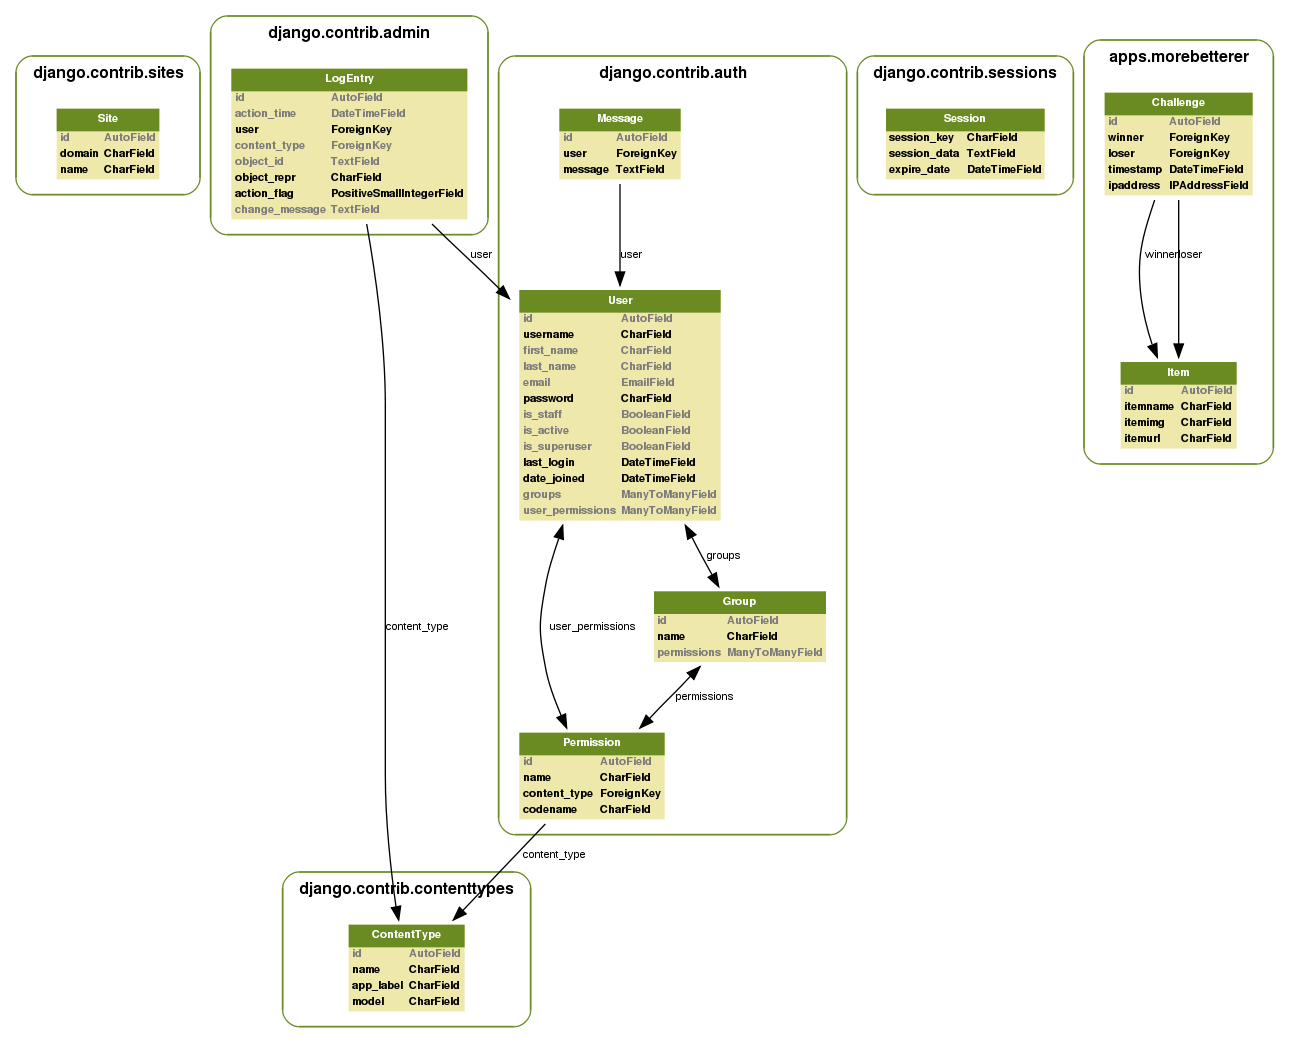
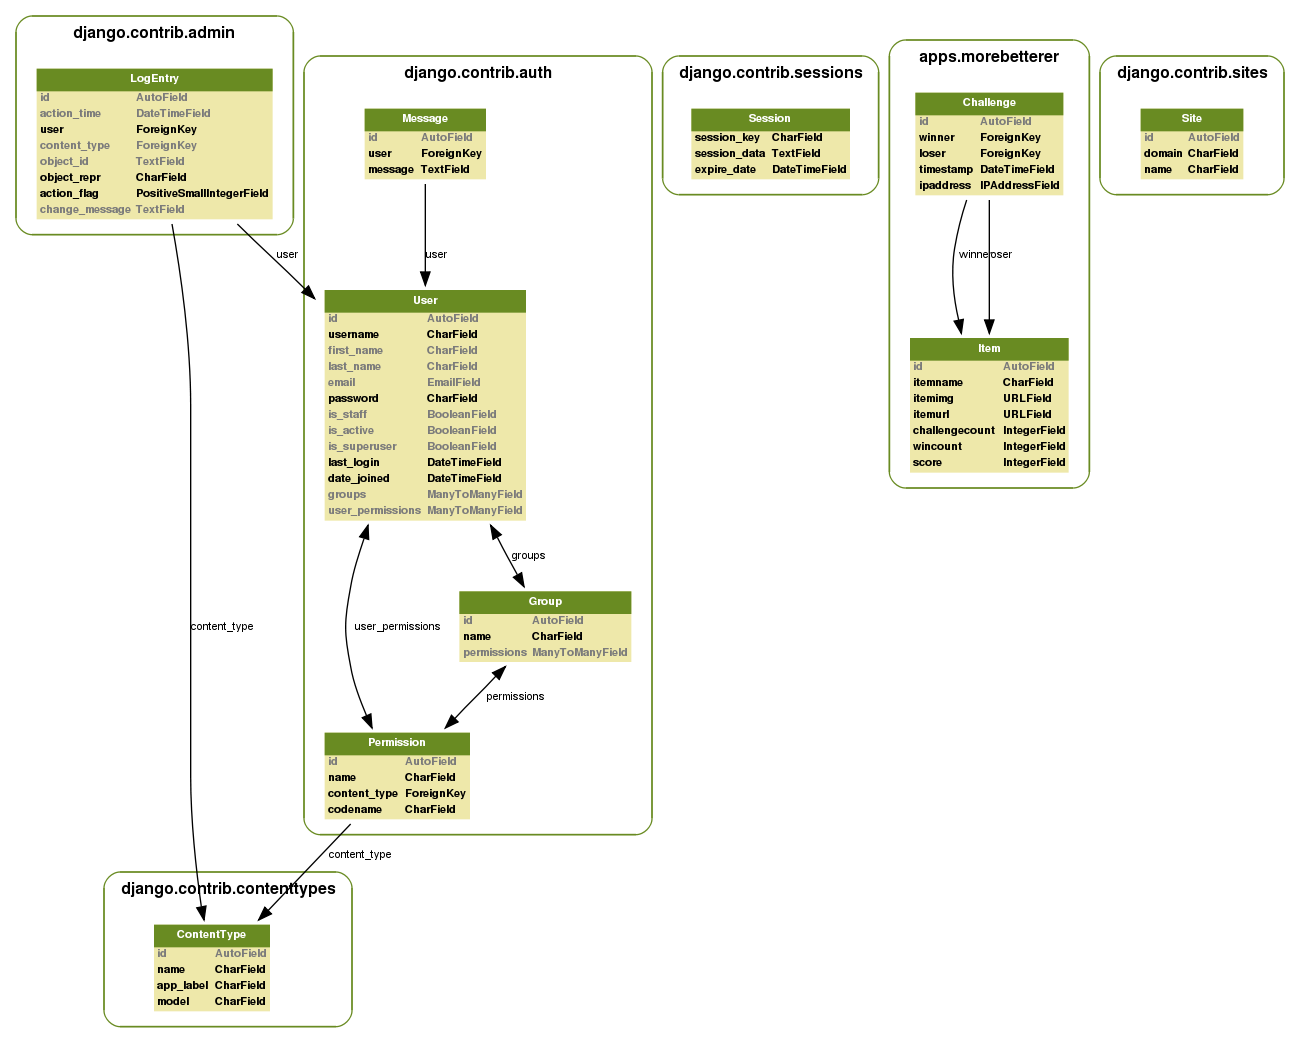
Added templates and views

diff --git a/templates/top.html b/templates/top.html
@@ -1,0 +1,13 @@
+{% extends "base.html" %}
+{% load convert_tags %}
+
+{% block title %}Top Photos ... so far{% endblock %}
+
+{% block content %}
+<h1>Top photos ... so far</h1>
+
+{% for item in items %}
+    <p><a href="{{ item.itemurl }}">{{ item.itemname }}</a></p>
+    <p><a href="{{ item.itemurl }}">{% thumbnail item.itemimg "600gt" %}</a></p>
+{% endfor %}
+{% endblock %}

diff --git a/templates/challenge.html b/templates/challenge.html
@@ -1,0 +1,12 @@
+{% extends "base.html" %}
+{% load convert_tags %}
+
+{% block title %}Photo of the Day Smackdown{% endblock %}
+
+{% block content %}
+<h1>Photo of the Day Smackdown</h1>
+<h2>Which image is more betterer?</h2>
+
+{% thumbnail item1.itemimg "600gt" %} vs {% thumbnail item2.itemimg "600gt" %} 
+
+{% endblock %}

diff --git a/templates/base.html b/templates/base.html
@@ -1,0 +1,9 @@
+<html>
+<head>
+    <title>{% block title %}{% endblock %}</title>
+</head>
+<body>
+    Heading
+    {% block content %}{% endblock %}
+</body>
+</html>

diff --git a/morebetterer/models.py b/morebetterer/models.py
@@ -1,3 +1,4 @@
+from __future__ import division
 from django.db import models
 from django.contrib import admin
 from datetime import datetime
@@ -7,7 +8,10 @@ from django.db.models import Avg
 class ItemQuerySet(QuerySet):
     def underchallengeditems(self):
         average = Item.objects.all().aggregate(Avg('challengecount'))['challengecount__avg']
-        return self.filter(challengecount__lte = average) 
+        return self.filter(challengecount__lte = average)
+    
+    def topitems(self):
+        return self.filter(challengecount__gte=5).order_by('-score') 
 
 class ItemManager(models.Manager):
     def get_query_set(self):
@@ -16,11 +20,14 @@ class ItemManager(models.Manager):
     def underchallengeditems(self):
         return self.get_query_set().underchallengeditems()
 
+    def topitems(self):
+        return self.get_query_set().topitems()
+
     def candidateitems(self):
         item1 = Item.objects.underchallengeditems().order_by('?')[0]
         item2 = Item.objects.exclude(id=item1.id).order_by('?')[0]
         return (item1, item2)
-
+    
 class Item(models.Model):
     objects = ItemManager()
     itemname =  models.CharField(max_length=150)
@@ -28,8 +35,8 @@ class Item(models.Model):
     itemurl =  models.URLField()
     challengecount = models.IntegerField(default=0)
     wincount = models.IntegerField(default=0)
-    losscount = models.IntegerField(default=0)
-
+    score = models.IntegerField(default=0)
+    
     def __unicode__(self):
         return self.itemname
 
@@ -43,13 +50,13 @@ class Challenge(models.Model):
         winneritem = Item.objects.filter(id=self.winner.id)[0]
         winneritem.wincount += 1
         winneritem.challengecount += 1
+        winneritem.score = winneritem.wincount / winneritem.challengecount 
         winneritem.save()
         loseritem = Item.objects.filter(id=self.loser.id)[0]
-        loseritem.losscount += 1
         loseritem.challengecount += 1
+        loseritem.score = loseritem.wincount / loseritem.challengecount 
         loseritem.save()
         super(Challenge, self).save(**kwargs)
 
     def __unicode__(self):
-        return self.winner.itemname + ' beat ' + self.loser.itemname
-
+        return '"' + self.winner.itemname + '" beat "' + self.loser.itemname + '"'

diff --git a/settings.py b/settings.py
@@ -2,6 +2,7 @@
 
 DEBUG = True
 TEMPLATE_DEBUG = DEBUG
+CONVERT_DEBUG = DEBUG
 
 import os.path
 PROJECT_DIR = os.path.dirname(__file__)
@@ -44,7 +45,7 @@ MEDIA_ROOT = os.path.join(PROJECT_DIR, 'media')
 # URL that handles the media served from MEDIA_ROOT. Make sure to use a
 # trailing slash if there is a path component (optional in other cases).
 # Examples: "http://media.lawrence.com", "http://example.com/media/"
-MEDIA_URL = 'http://localhost:8000/media/'
+MEDIA_URL = '/media/'
 
 LOGIN_REDIRECT_URL = '/'
 
@@ -55,6 +56,8 @@ ADMIN_MEDIA_PREFIX = '/media/admin/'
 
 # Make this unique, and don't share it with anybody.
 SECRET_KEY = 'ba@+v!ny2fa%ou+$a!!)b%0dl8950&p)ibexnns-@_#xh8u4fh'
+
+INTERNAL_IPS = ('127.0.0.1',)
 
 # List of callables that know how to import templates from various sources.
 TEMPLATE_LOADERS = (
@@ -73,9 +76,6 @@ MIDDLEWARE_CLASSES = (
 ROOT_URLCONF = 'apps.urls'
 
 TEMPLATE_DIRS = (
-    # Put strings here, like "/home/html/django_templates" or "C:/www/django/templates".
-    # Always use forward slashes, even on Windows.
-    # Don't forget to use absolute paths, not relative paths.
     os.path.join(PROJECT_DIR, 'templates'),
 )
 
@@ -86,5 +86,7 @@ INSTALLED_APPS = (
     'django.contrib.sessions',
     'django.contrib.sites',
     'django_extensions',
+    'debug_toolbar',
+    'convert',
     'apps.morebetterer',
 )

diff --git a/urls.py b/urls.py
@@ -1,17 +1,17 @@
 from django.conf.urls.defaults import *
+from django.conf import settings
 
 # Uncomment the next two lines to enable the admin:
 from django.contrib import admin
 admin.autodiscover()
 
 urlpatterns = patterns('',
-    # Example:
-    # (r'^apps/', include('apps.foo.urls')),
-
-    # Uncomment the admin/doc line below and add 'django.contrib.admindocs' 
-    # to INSTALLED_APPS to enable admin documentation:
-    # (r'^admin/doc/', include('django.contrib.admindocs.urls')),
-
-    # Uncomment the next line to enable the admin:
+    (r'^morebetterer/$', 'morebetterer.views.challenge'),
+    (r'^morebetterer/top/$', 'morebetterer.views.top'),
     (r'^admin/(.*)', admin.site.root),
 )
+
+if settings.DEBUG:
+    urlpatterns += patterns('',
+        (r'^media/(?P<path>.*)$', 'django.views.static.serve', {'document_root': '/usr/local/src/python/apps/media'}),
+    )

diff --git a/redbubblescrape.py b/redbubblescrape.py
@@ -1,0 +1,15 @@
+from morebetterer.models import Item
+from BeautifulSoup import BeautifulSoup
+
+user = 'roger'
+url = 'http://www.redbubble.com/people/' + user + '/art?page='
+
+page = 1
+b = BeautifulSoup
+
+
+"""for e in d.entries:
+    imageurl = ???.replace('zzzxzzz,075,z','550x550,075,f')
+    if not Item.objects.filter(itemurl=?xxx?).count():
+        i = Item(itemimg = imageurl, itemurl = ?xxx?, itemname = ?yyy?)
+        i.save()"""

diff --git a/redbubblefeed.py b/redbubblefeed.py
@@ -1,0 +1,11 @@
+from morebetterer.models import Item
+import feedparser
+
+user = 'roger'
+feed = 'http://assets.redbubble.com/people/' + user + '/art.atom'
+d = feedparser.parse(feed)
+for e in d.entries:
+    imageurl = e.enclosures[0].href.replace('300x300,075,t','550x550,075,f')
+    if not Item.objects.filter(itemurl=e.link).count():
+        i = Item(itemimg = imageurl, itemurl = e.link, itemname = e.title)
+        i.save()

diff --git a/morebetterer/views.py b/morebetterer/views.py
@@ -1,1 +1,11 @@
-# Create your views here.
+from django.shortcuts import render_to_response
+from morebetterer.models import Item, Challenge
+
+def top(request):
+    items = Item.objects.topitems()
+    return render_to_response('top.html', {'items': items})
+    
+def challenge(request):
+    item1, item2 = Item.objects.candidateitems()
+    return render_to_response('challenge.html', {'item1': item1, 'item2' : item2})
+    
